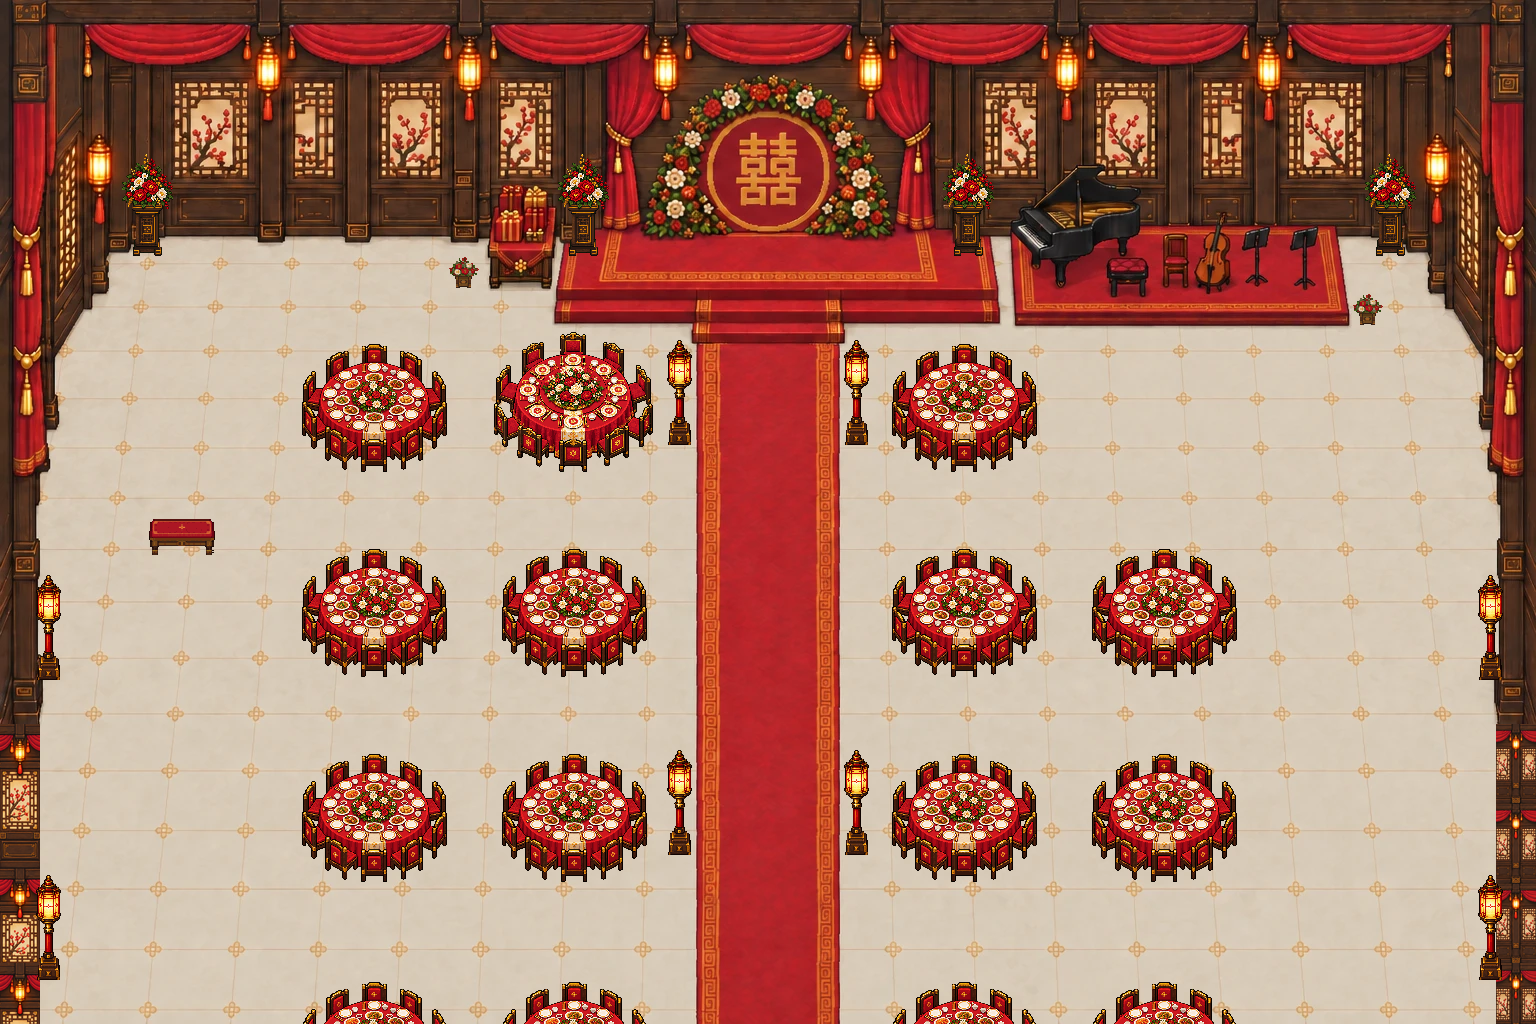
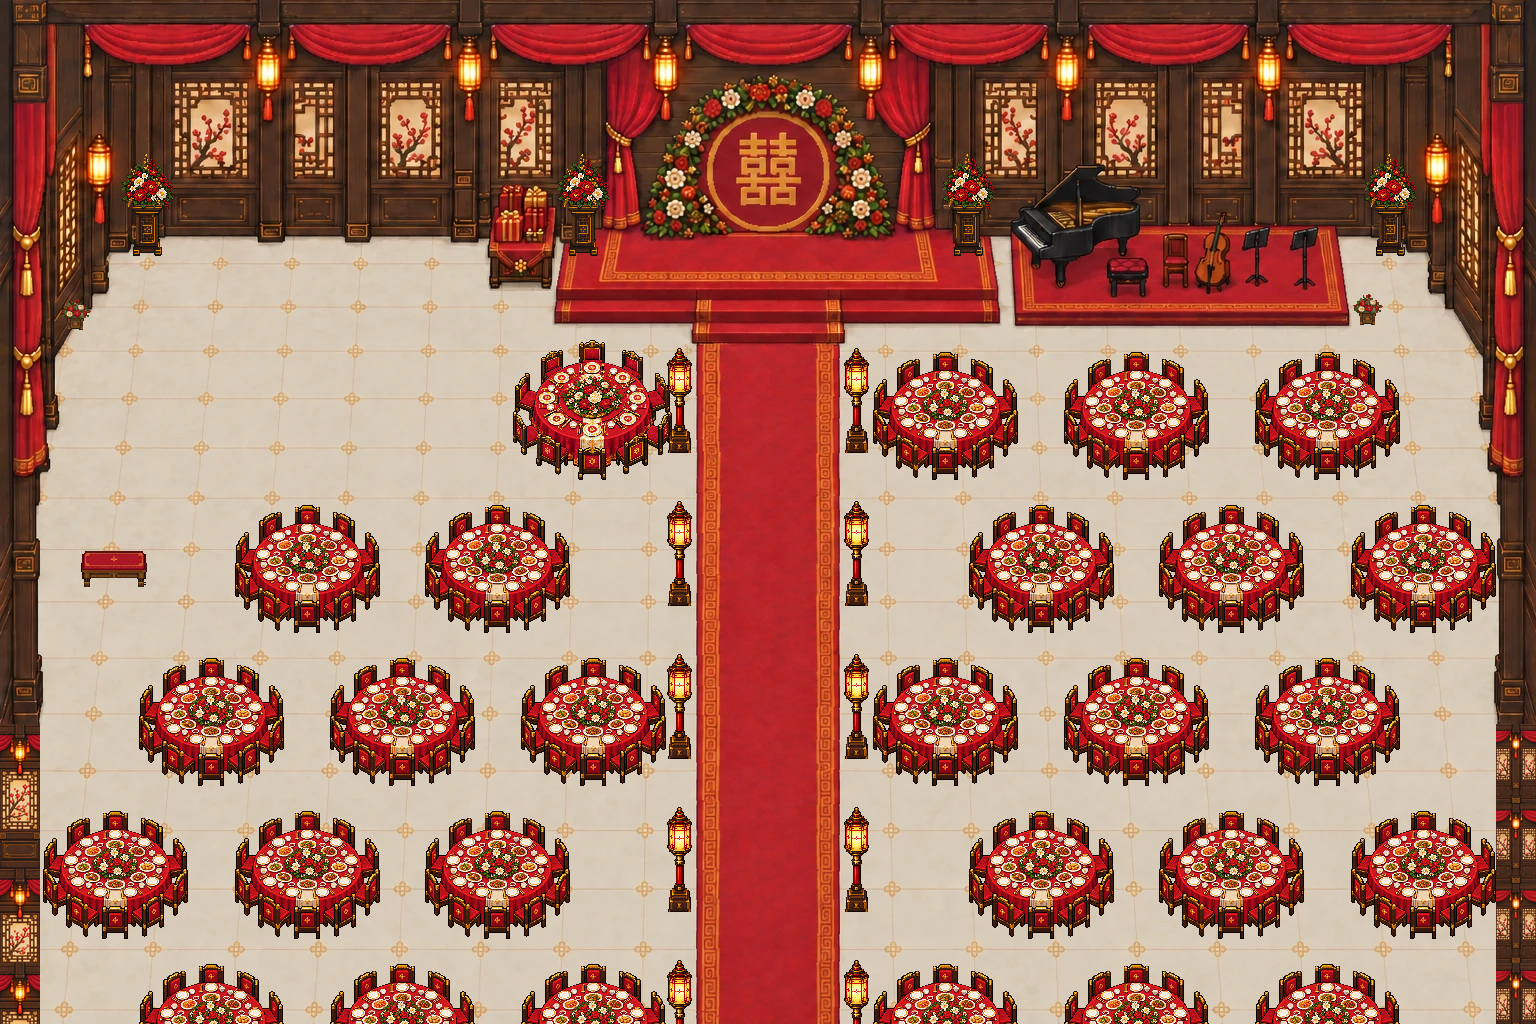
排法 C 合进 main 的回执和截图（shot.sh 出：同机位开席截图印 f64abb1、整厅缩略）；shot_canvas 带界面时镜头照游戏跟人走（跟截图预设同机位，错位 0）；shot.sh 从哪个 worktree 跑都用主仓库那一个截图环境；接图预览图跟着排法 C 重出

diff --git a/godot/回执/55桌-排法C-合进main-回执.md b/godot/回执/55桌-排法C-合进main-回执.md
@@ -1,0 +1,58 @@
+# 55 桌厅排法 C 合进 main · 回执（02 D，10/2）
+
+阿鱼原话：「那就 C 吧」。01 E 锁死排法 C，派 02 合进 main 当默认厅，**用现在的图（B55）**，不出码。
+
+**结论：合进 main 了，默认厅就是 C。** 550 把椅子全走得到；客户端测试 30 个全过（`test_map` 照旧只打印），桥测试过；导入 0 次 aborted。
+
+## 改了什么
+
+- **摆位表**：`make_board55.py` 默认就是 C。00 定了它是 55 桌厅零件规格的唯一源。
+  - 每边 3 列错开；同一排左右留 45、斜着那条过道 70；行距 153；整厅 **2091** 长（原来 3440）。
+  - 红毯两边每排一根灯；主桌在第 1 排红毯西边第一张；舞台西边地上礼物堆 10 份（B55S-P05，真图没到先不画、挡路照算）。
+  - `SUQI55_LAYOUT=A/B/D` 还能出别的几档，`=v9` 出锁死之前那版。
+- **场景**：重新生成了 `scene.json`、`base.png`、`ambience_55.json`。
+- **测试** `test_hall_big`：
+  - 写死旧厅的三条，改成从场景数据读：
+    - 厅长：不写 3440，看宽 1536、比两张背景长；
+    - 第 1 排：主桌是红毯西边第一张，T1、T2 也在第 1 排；
+    - 贴屏幕边的牌子：挑红毯东边最靠红毯那列，不写死 x 963。
+  - **T7 亲友那条查清了，不是游戏的毛病，是测试碰运气**：
+    - 开席时亲友从厅里各处走回座位，排法 C 里 T7 离他们开席前转的地方远，第一位 10 秒左右才坐下、全坐好要 15 秒；
+    - 测试原来在开席后 15 秒左右那一刻看「有没有人坐着」，时有时无；
+    - 改成等到有一位坐下再测，最多等 30 秒。连跑 3 次都过。
+  - 「主桌照旧只给阿鱼、Toretto」那条跟在 T7 后面：先坐到 T7 才测主桌，T7 好了它也好了。
+  - A 那两个挤出来的问题（站一张桌边亮两张牌、「坐这儿」对的桌跟亮牌对不上），排法 C 里没有。
+- **截图工具**顺手改了三处：
+  - `shot_canvas.gd`：开席时快进 60 秒，让亲友走到座位；带界面截时镜头照游戏自己的跟人走法（跟截图预设同一个机位）；
+  - `shot.sh`：从哪个 worktree 跑，都用主仓库那一个截图环境。
+
+## 南边、东侧门
+
+- **不用裁也不用挪**：
+  - 排法 C 整厅 2091 长：北边背景 0～1024，南边背景从 **1067** 接到 2091，中间 1024～1067 那 43 像素用北边最下面那行地砖接；
+  - 两张背景**不叠**（只有更挤的 A 才叠）。
+- **东侧门**在东墙 y **1260～1318**，就是南边背景里画的那个门（那张图里 193～251），跟图对得上。
+- **长凳**在第 2 排最靠西墙那个空位；东侧门口那排最靠东墙空一张、西边对称也空一张。
+
+## 要 GPT 重画南边的话，要什么（给 01 写任务用）
+
+色块法照 00 指导：03 导色块 → GPT 照画 → 照零件单拆 → 02 换回。南边这块建议：
+
+| 项 | 要什么 |
+| --- | --- |
+| 范围 | 整厅 y **1024～2091**，一张 **1536×1067**。跟北边那块接在 y 1024，中间不再用地砖往下接 |
+| 背景里画的 | 两边 40 宽直墙（跟北边新墙一个样子）、东墙上的东侧门（y 1260～1318，门洞看得见外面）、最南头的大门门柱和开着的两扇门、门槛、两段栏杆、红毯一直铺到门槛、地砖（跟 B55S-W01 一样，能跟北边接上） |
+| 不画在背景里（零件，游戏里摆） | 桌 B55S-T01、灯 B55S-P01：已经在北边那包里了，南边照用，不另画 |
+| 尺寸以色块为准 | 门柱、栏杆、门槛的位置 03 照摆位表导；大门门洞（人能走的那截）宽 120 |
+
+## 截图
+
+都在 `godot/回执/55桌-排法C-定稿/`，用 `shot.sh` 出的：
+
+- `手机-西边桌子中间-开席-540x960.png`：跟给阿鱼挑的对比图同一个机位；跟对比图里的 C 比，错位 (0, 0)，平均差 7.7，是客人坐的位置随机不一样；底下印 `f64abb1`。
+- `整厅缩略-无人.png`：整厅 1/3、不放人。
+
+## 提交
+
+- 分支 `layout-c`：`16fe65a` 合 relayout55、`f64abb1` C 定成默认 + 测试 + 截图工具、本回执这次提交；
+- 合进 main。

diff --git a/godot/tools/截图环境-用法.md b/godot/tools/截图环境-用法.md
@@ -53,3 +53,5 @@ zsh godot/tools/shot.sh HEAD --prepare-only
 - **撞车**：03、04 同时用会共用同一个 worktree，**一次一个人用**。
 - **以前那个补丁**：03 的 `render_north_1to1.patch` 用不着了，北边 1:1 用默认参数就是那张（10/2 逐像素核过，见 `godot/回执/截图环境-回执.md`）。
 - **测「导入不全会报错」**：环境变量 `SUQI_GODOT` 可以把 Godot 换成假的。
+- **提交号最好写死**：`HEAD` 指的是主仓库 main 的 HEAD；在分支、worktree 里改的东西，给提交号（`git rev-parse --short HEAD`）。
+- **手机屏（`--ui=1`）**：人站在 rect 中心最近能站的那格，镜头照游戏自己的跟人走法，缩放照手机，`--zoom` 不管用。跟截图预设（比如 `big_west_feast`）同一个点，出来是同一个机位。
